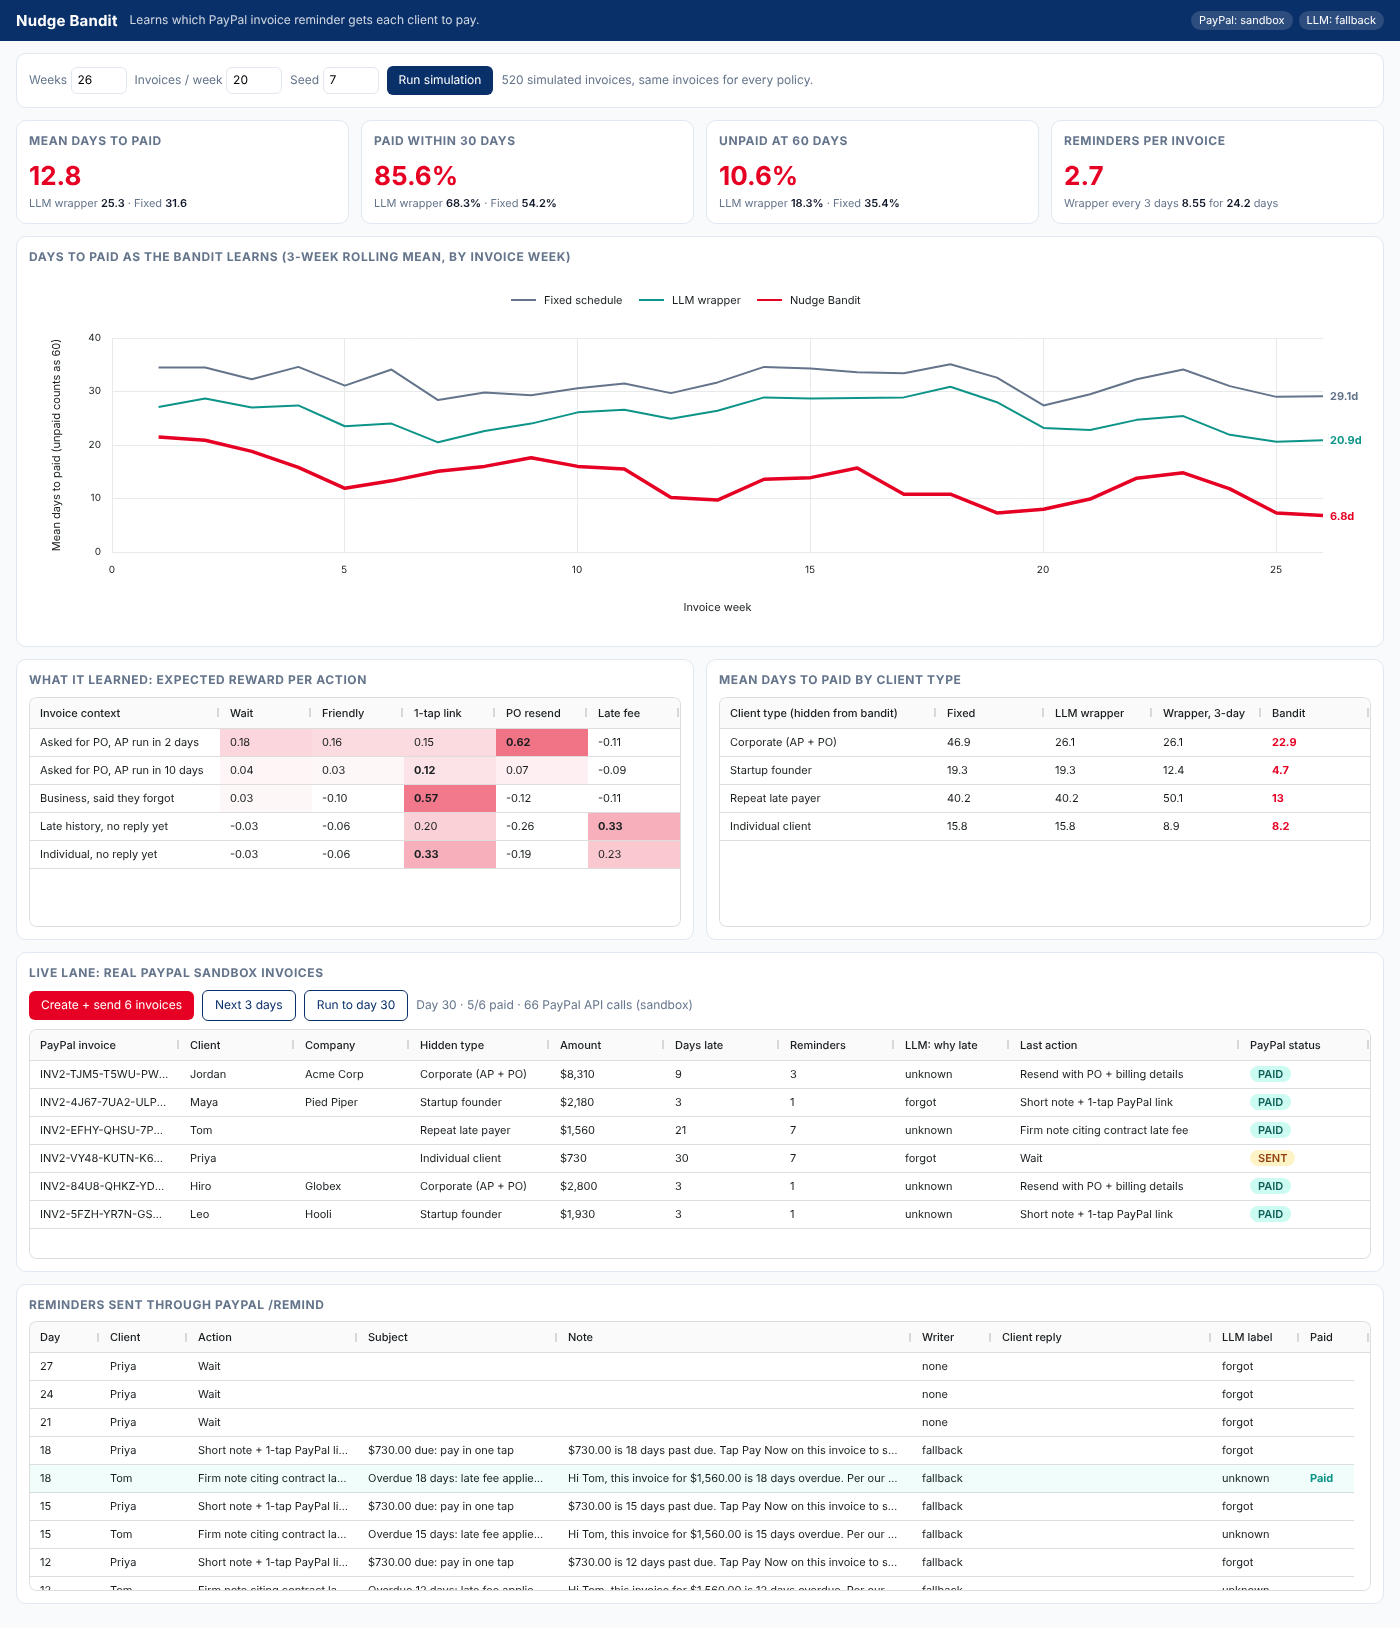
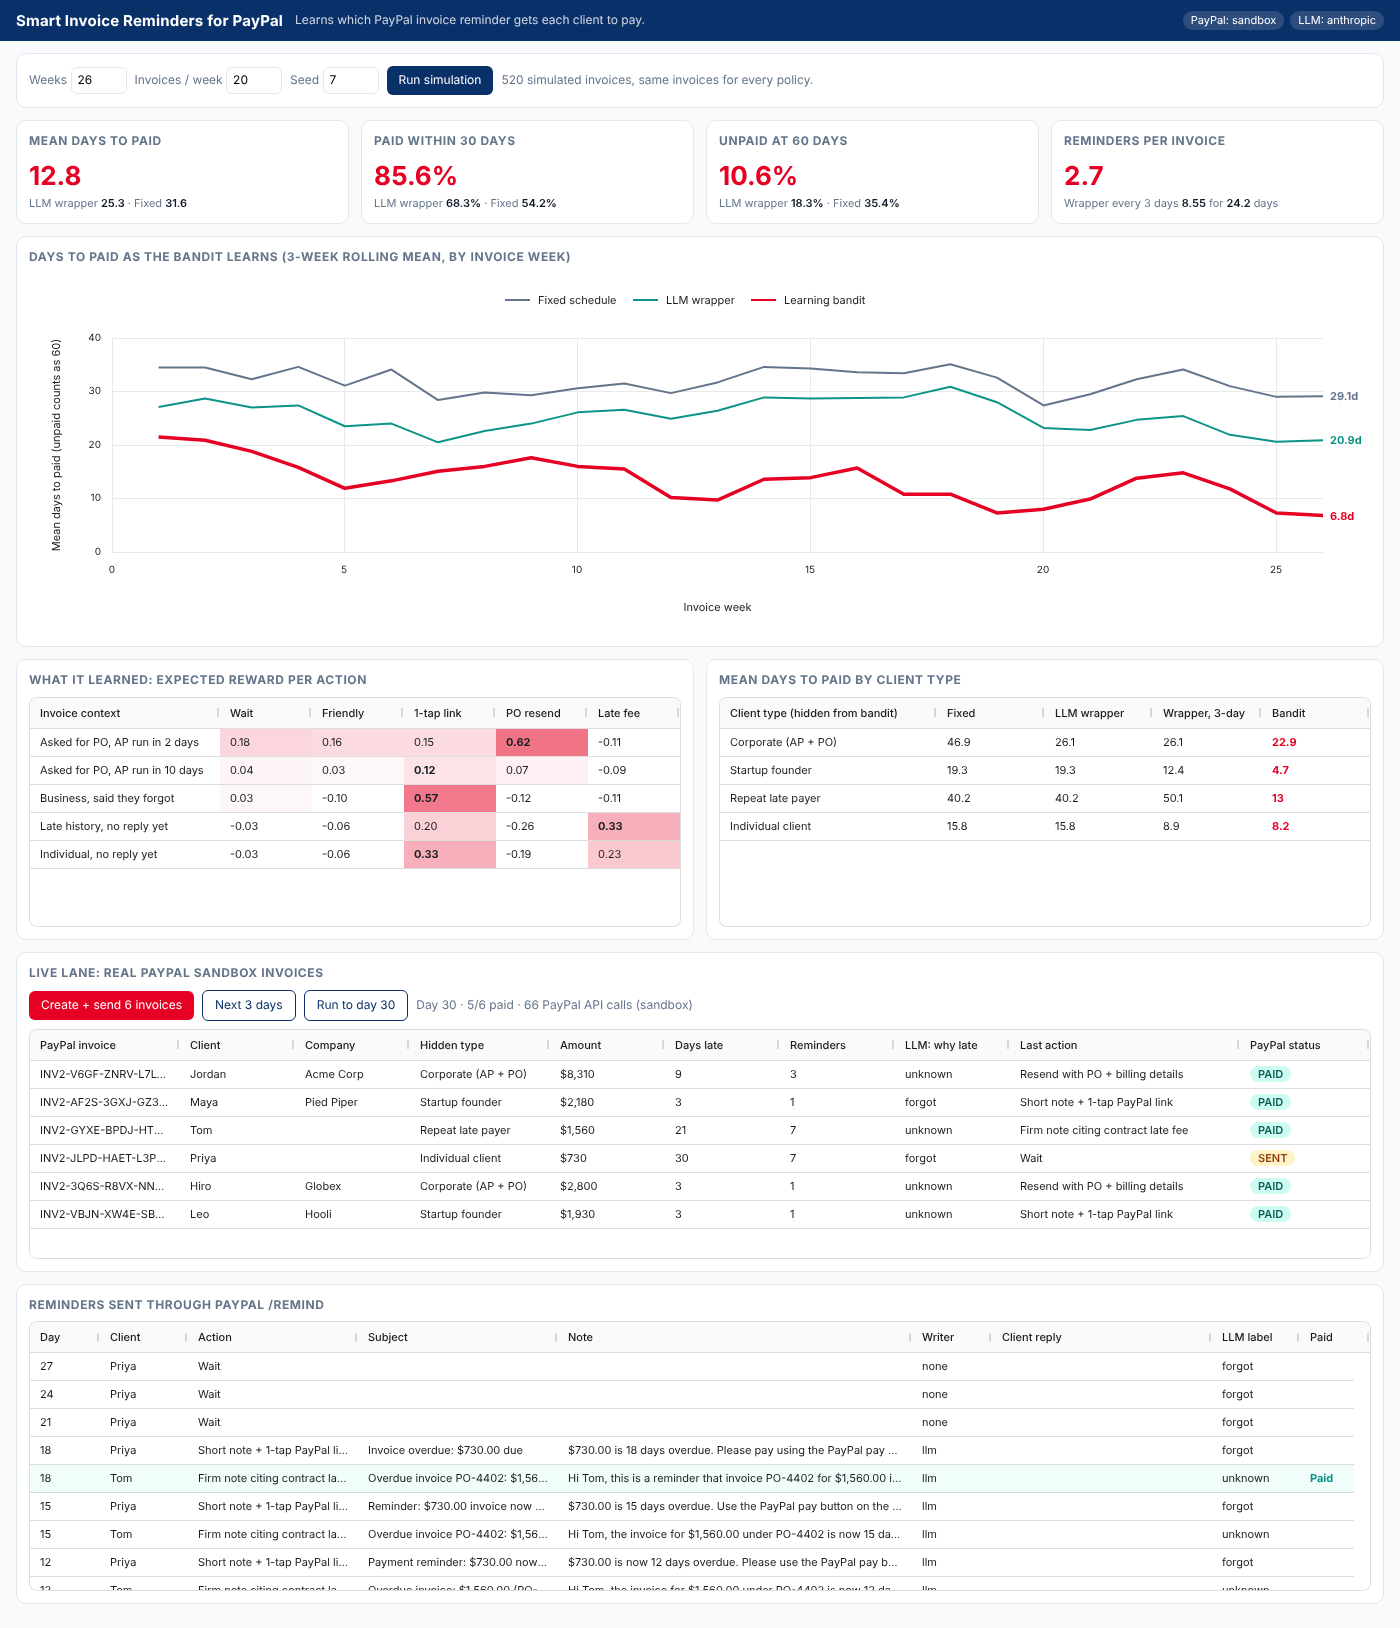
Claude writes reminders and labels replies; fix thinking token budget
- Raise max_tokens headroom so thinking does not starve the text output
- Parse only text blocks, lenient JSON
- Only company invoices get a PO number
- Tests stay offline
- Screenshot from a live sandbox run with Claude

Claude-Session: https://claude.ai/code/session_01CmEUfvAm3Gg7f5yBTAWF8F

diff --git a/app/llm.py b/app/llm.py
@@ -49,12 +49,13 @@ def _chat(system: str, user: str, max_tokens: int = 400) -> str:
             "https://api.anthropic.com/v1/messages",
             headers={"x-api-key": os.environ["ANTHROPIC_API_KEY"], "anthropic-version": "2023-06-01",
                      "content-type": "application/json"},
-            json={"model": os.getenv("ANTHROPIC_MODEL", "claude-haiku-5-5"), "max_tokens": max_tokens,
+            # Leave headroom: newer models may spend part of the budget on thinking.
+            json={"model": os.getenv("ANTHROPIC_MODEL", "claude-haiku-5-5"), "max_tokens": max_tokens + 1500,
                   "system": system, "messages": [{"role": "user", "content": user}]},
-            timeout=30,
+            timeout=60,
         )
         r.raise_for_status()
-        return "".join(b.get("text", "") for b in r.json()["content"])
+        return "".join(b.get("text", "") for b in r.json()["content"] if b.get("type") == "text")
     if p == "openai":
         r = httpx.post(
             "https://api.openai.com/v1/chat/completions",
@@ -78,7 +79,7 @@ def classify_reply(text: str) -> dict:
               "forgot = they overlooked it. cash_tight = they lack funds right now. other = anything else.")
     try:
         raw = _chat(system, text, max_tokens=50)
-        reason = json.loads(raw[raw.find("{"): raw.rfind("}") + 1])["reason"]
+        reason = json.loads(raw[raw.find("{"): raw.rfind("}") + 1], strict=False)["reason"]
         if reason in REASONS:
             return {"reason": reason, "source": "llm"}
     except Exception:
@@ -133,7 +134,7 @@ def write_reminder(action: str, inv: dict) -> dict:
                        "client_last_reply": inv.get("last_reply")})
     try:
         raw = _chat(system, user)
-        out = json.loads(raw[raw.find("{"): raw.rfind("}") + 1])
+        out = json.loads(raw[raw.find("{"): raw.rfind("}") + 1], strict=False)
         return {"subject": out["subject"][:60], "note": out["note"][:600], "source": "llm"}
     except Exception:
         return {**_fallback_reminder(action, inv), "source": "fallback"}

diff --git a/tests/test_core.py b/tests/test_core.py
@@ -20,13 +20,17 @@ def test_fallback_classifier():
     assert classify_reply_fast("Cash flow is tight this month") == "cash_tight"
 
 
-def test_fallback_writer():
+def test_fallback_writer(monkeypatch):
+    monkeypatch.delenv("ANTHROPIC_API_KEY", raising=False)
+    monkeypatch.delenv("OPENAI_API_KEY", raising=False)
     m = write_reminder("include_po", {"client_name": "Jordan", "amount": 4800, "days_overdue": 9, "po_number": "PO-1"})
     assert "PO-1" in m["note"] and m["subject"]
 
 
 def test_live_lane_mock_end_to_end(monkeypatch):
     monkeypatch.delenv("PAYPAL_CLIENT_ID", raising=False)  # always use the mock in tests
+    monkeypatch.delenv("ANTHROPIC_API_KEY", raising=False)
+    monkeypatch.delenv("OPENAI_API_KEY", raising=False)
     c = TestClient(app)
     assert c.post("/api/simulate", json={"weeks": 8, "per_week": 10}).status_code == 200
     v = c.post("/api/live/start").json()

diff --git a/app/live.py b/app/live.py
@@ -54,7 +54,7 @@ class LiveLane:
             inv = make_invoice(k, _seed_for(seg, k))
             inv.client_name, company = DEMO_CLIENTS[k]
             inv.company = company if inv.is_business else None
-            po = f"PO-{4400 + k}" if inv.is_business else None
+            po = f"PO-{4400 + k}" if inv.company else None
             created = self.pp.create_invoice(client_name=inv.client_name, email=email, amount=inv.amount,
                                              po_number=po, item=ITEMS[seg],
                                              note="Thanks for your business. Pay with PayPal from this invoice.")
